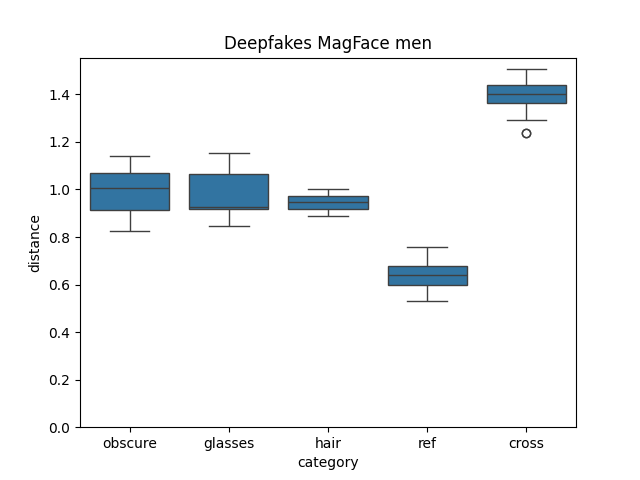
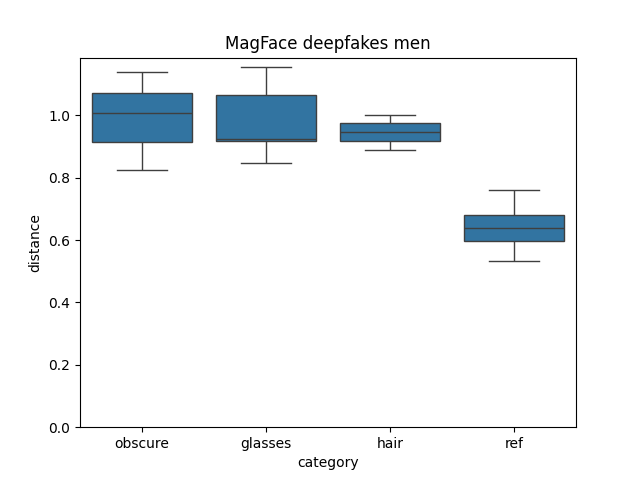
Changed graphs for MagFace to not include cross column for deepfakes

diff --git a/MagFace/plot_results.py b/MagFace/plot_results.py
@@ -42,7 +42,8 @@ def main():
             dfs.append(df)
     result_df = pd.concat(dfs, ignore_index=True)
     if (result_df['target'].str.contains('_result.jpg')).any():
-        cols = ['obscure', 'glasses', 'hair', 'ref', 'cross']
+        cols = ['obscure', 'glasses', 'hair', 'ref']
+        result_df = result_df[result_df['category'] != 'cross']
     else:
         cols = ['obscure', 'glasses', 'hair', 'cross']
     sns.boxplot(result_df, x='category', y='distance', order=cols)
